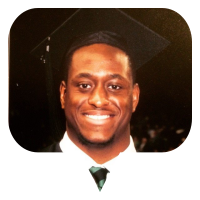
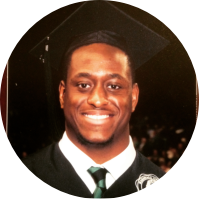
added the pics and links

diff --git a/index.html b/index.html
@@ -71,45 +71,52 @@
                                                   <h3>Malcolm Strong</h3>
                                                   <h3>Full Stack Developer<h3>
                                                 <br>
-                                                  <a href="https://www.linkedin.com/in/malcolm-strong-78088a105/">Click For Profile</a>
+                                                  <a href="https://www.linkedin.com/in/malcolm-strong-78088a105/" class="bio-text">Click For Profile</a>
                                                 <br>
-                                            <p>wkbwehfbeqhfbqehcbeq<br>ohcbeohf2hoebhleqbcoq</p>
+
                                       </div>
                                     </div>
                                 <div class="col-md-6">
                                             <div class="bio">
+                                              <img src="assets/images/michaelmann.png">
                                                 <h3>Micheal Mann<h3>
                                                 <h3>Full Stack Developer<h3>
                                                 <br>
-                                              <a href="">Click For Profile</a>
+                                              <a href="" class="bio-text">Click For Profile</a>
                                                 <br>
-                                          <p>wkbwehfbeqhfbqehcbeq<br>ohcbeohf2hoebhleqbcoq</p>
+
                                     </div>
                                   </div>
                                 </div>
                                 <div class="row">
                                       <div class="col-md-6">
                                             <div class="bio">
+                                              <img src="assets/images/lukechambers.png">
                                                 <h3>Luke Chambers<h3>
                                                 <h3>Full Stack Developer<h3>
                                               <br>
-                                                <a href="">Click For Profile</a>
+                                                <a href="" class="bio-text">Click For Profile</a>
                                               <br>
-                                          <p>wkbwehfbeqhfbqehcbeq<br>ohcbeohf2hoebhleqbcoq</p>
+
                                       </div>
                                     </div>
                                     <div class="col-md-6">
                                           <div class="bio">
+                                            <img src="assets/images/jessicasalter.png">
                                                 <h3>Jessica Salter<h3>
                                                 <h3>Full Stack Developer<h3>
                                             <br>
-                                              <a href="">Click For Profile</a>
+                                              <a href="https://www.linkedin.com/in/jessicamsalter/" class="bio-text">Click For Profile</a>
                                             <br>
-                                        <p>wkbwehfbeqhfbqehcbeq<br>ohcbeohf2hoebhleqbcoq</p>
+
                                     </div>
                                 </div>
                             </div>
-                        </div>
+                  
+
+
+
+                </div>
 
 
 

diff --git a/assets/css/style.css b/assets/css/style.css
@@ -70,11 +70,11 @@ body .homepage-hero-module{
 }
 
 
-.no-button:hover {
+/*.no-button:hover {
   color: white;
   background-color: rgba(239, 241, 244, 0.5);
   text-decoration: none;
-}
+}*/
 
 #logo {
   position: fixed;
@@ -170,15 +170,32 @@ input[type=text]:focus {
   font-size: 20px;
 }
 
-a:hover {
+.no-button:hover {
+  text-decoration: none;
+  padding: 3px;
+  padding-left: 5px;
+  padding-right: 5px;
+  color: white;
+  background-color: rgba(239, 241, 244, 0.5);
+}
+.no-button:link .no-button:visited .no-button:hover .no-button:active .no-button {
+  color: white;
+}
+
+/*.no-button:a
+  color: white;
+}*/
+
+h3 {
+  font-family: 'Playfair Display SC', serif;
+}
+
+.bio-text:hover {
   color: #002C5C;
   background-color: rgba(239, 241, 244, 0.8);
   text-decoration: none;
   padding: 3px;
   padding-left: 5px;
   padding-right: 5px;
-}
 
-h3 {
-  font-family: 'Playfair Display SC', serif;
 }
